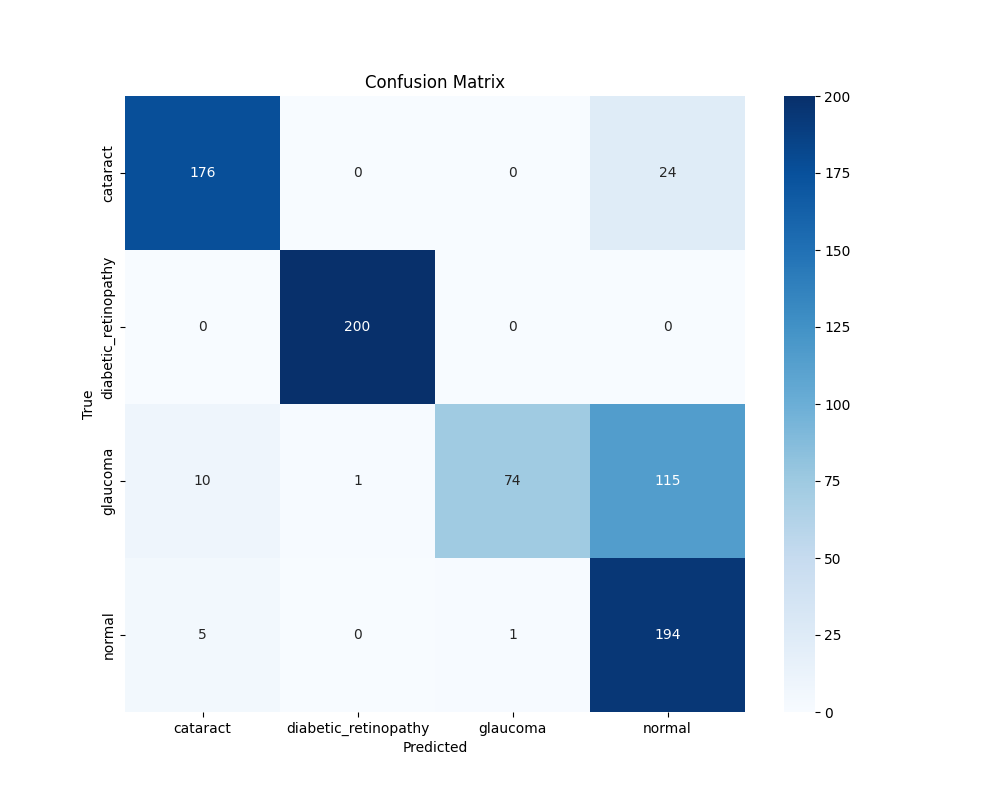
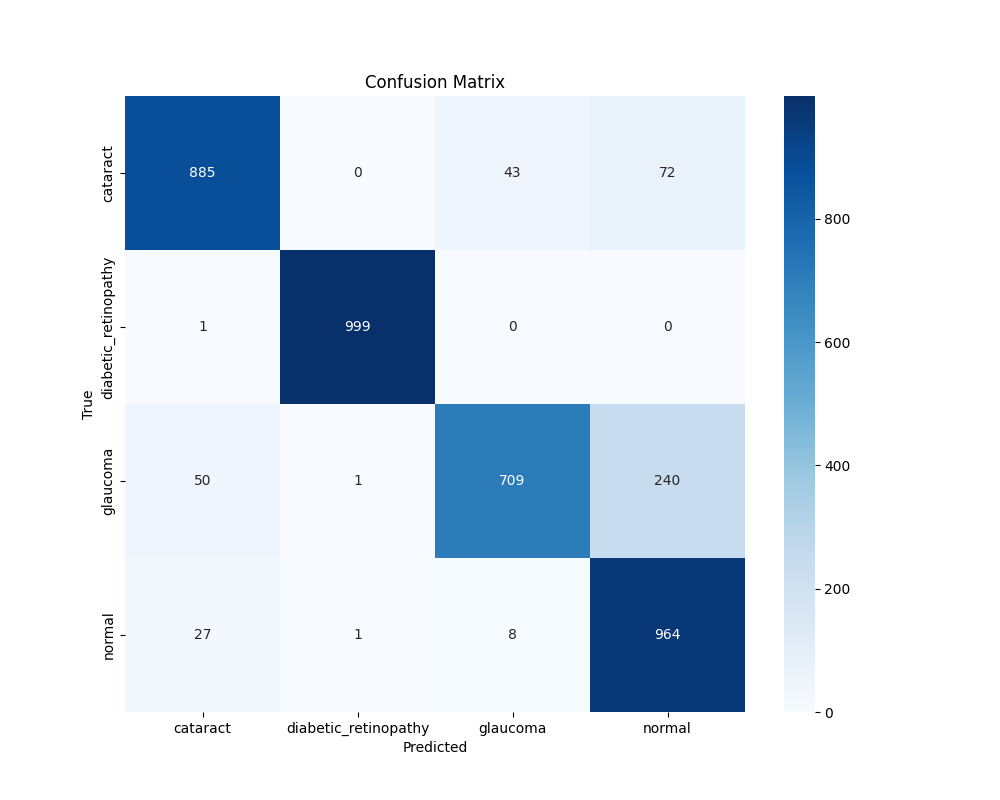
updated eval code for 1000 images from 200. new confusion matrix.

diff --git a/eval_model.py b/eval_model.py
@@ -40,7 +40,7 @@ class FundusDataset(torch.utils.data.Dataset):
             class_dir = os.path.join(root_dir, class_name)
             if not os.path.isdir(class_dir):
                 continue
-            for img_name in os.listdir(class_dir)[:200]:  # Limit to 200 images per class
+            for img_name in os.listdir(class_dir)[:1000]:  # Number of images to include!
                 self.samples.append((os.path.join(class_dir, img_name), self.class_to_idx[class_name]))
 
     def __len__(self):
